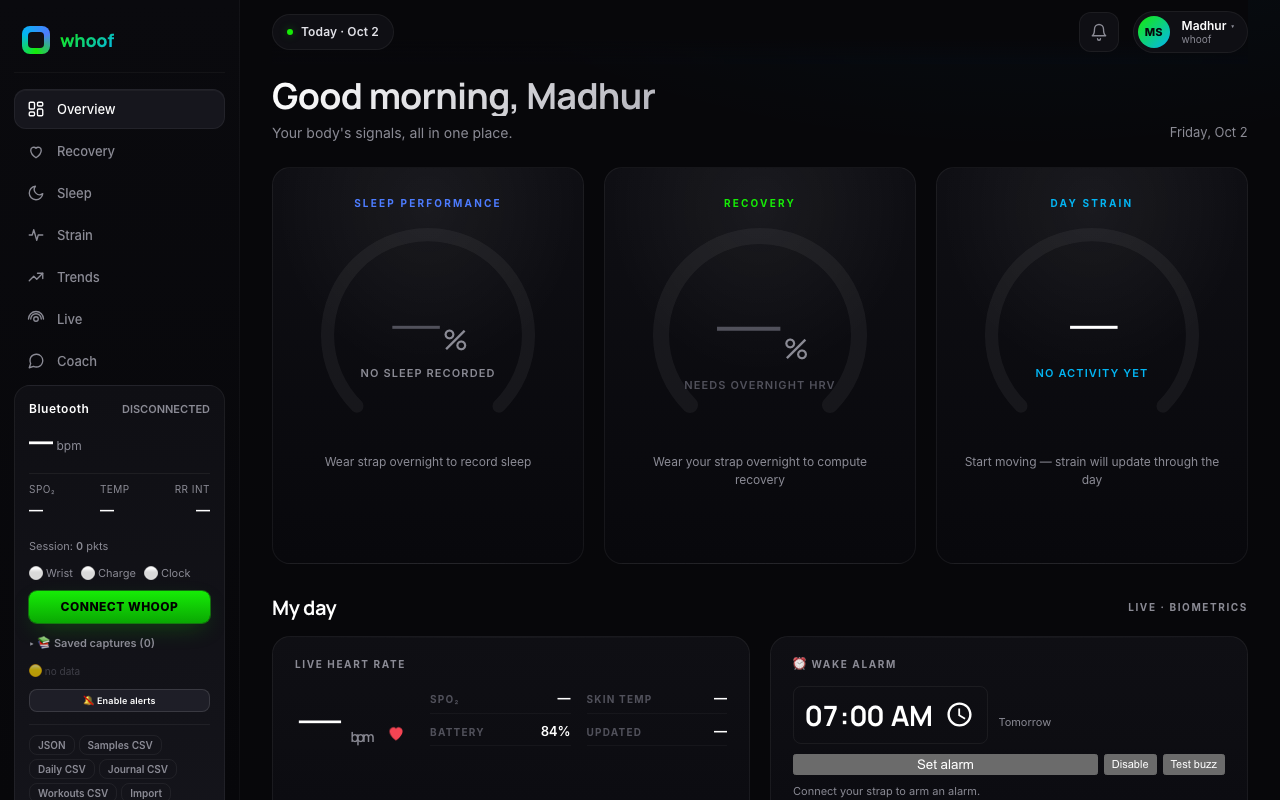
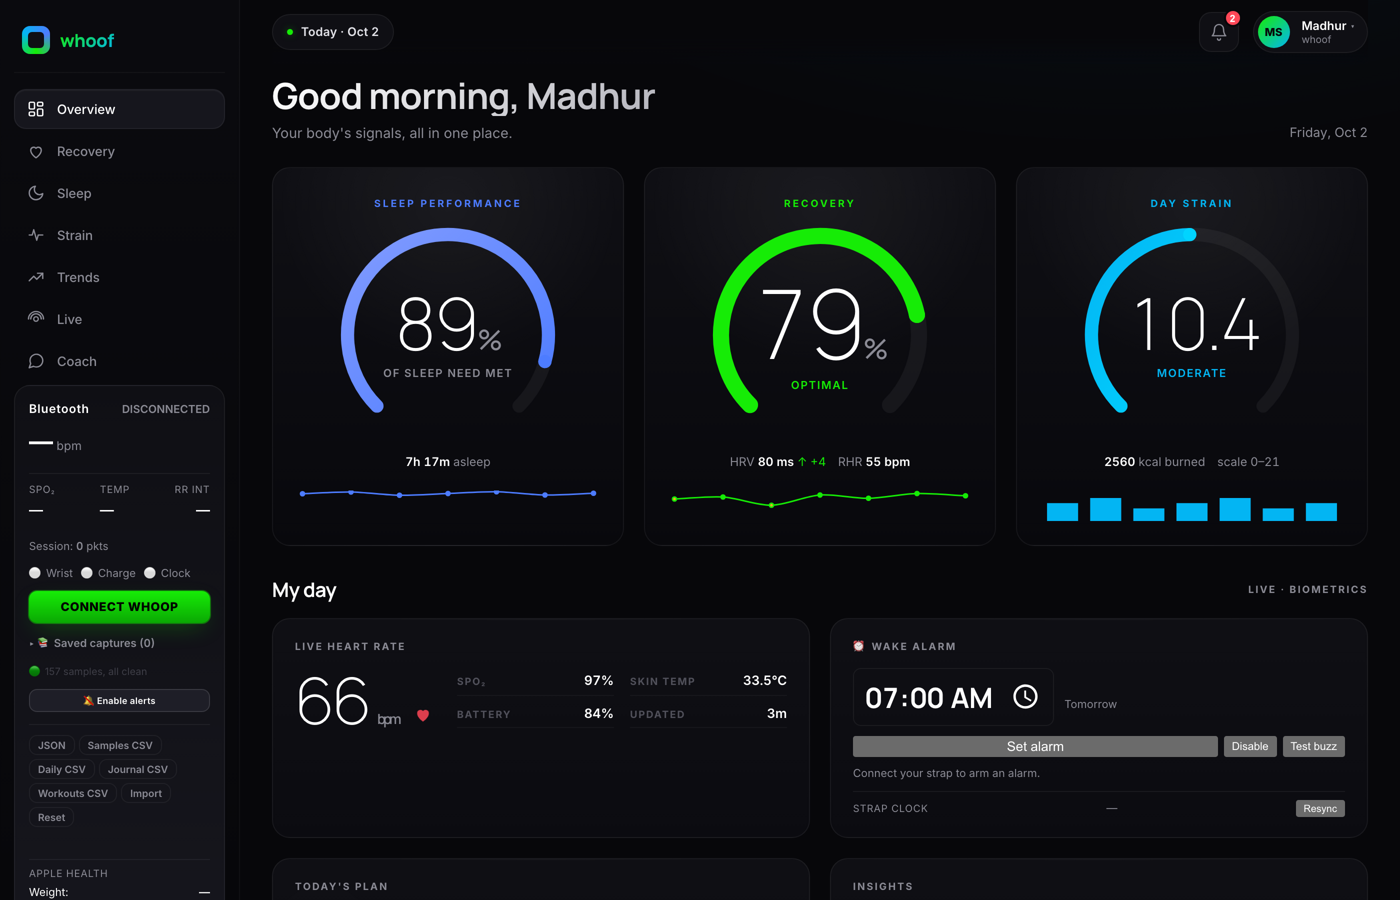
docs: replace empty-state screenshot with one showing sample data

diff --git a/README.md b/README.md
@@ -34,7 +34,9 @@ Cloudflare's CDN. No install, no signup; pair your own strap over BLE
 
 ## Screenshots
 
-![Overview dashboard](docs/screenshots/whoof.png)
+![Overview dashboard with sleep, recovery and strain rings (sample data)](docs/screenshots/whoof.png)
+
+![Recovery page (sample data)](docs/screenshots/whoof-recovery.png)
 
 ## Architecture
 
